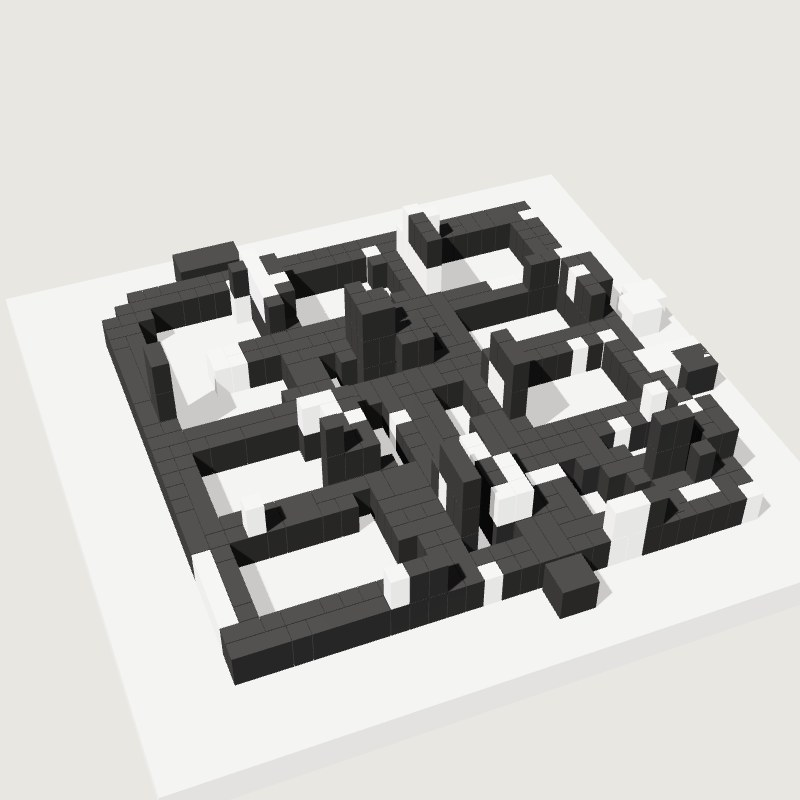
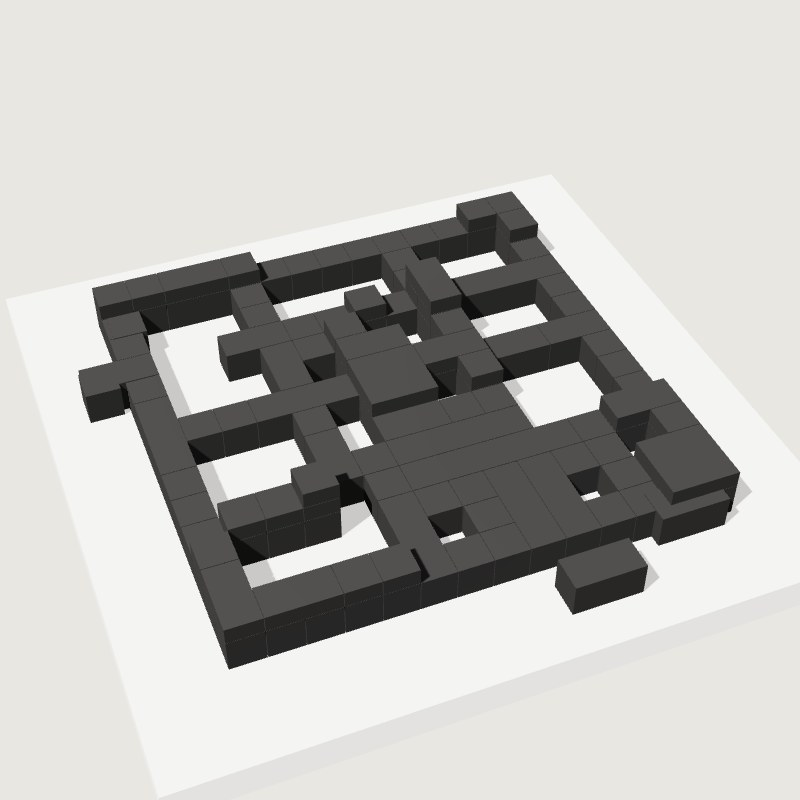
blocks: bigger blocks (a stroke wide), all black

Changed region(s): [[0.0938, 0.2188, 0.9688, 0.875], [0.8125, 0.375, 0.8438, 0.4062]]

diff --git a/dist/assets/index.d4fcfd42.js b/dist/assets/index.d4fcfd42.js
@@ -1,0 +1,1 @@
+import"./modulepreload-polyfill.b7f2da20.js";import{E as rt}from"./embed.d17cc095.js";import{q as ct,ak as lt,au as dt,aC as pt,v as ht,p as mt,ai as ut,av as wt,aD as ft,z as yt,x as Mt,U as K,ao as N,A as W,aE as bt,aF as S,aG as gt,aH as I,aI as _,at as xt,ay as vt,K as U,aJ as Et,ar as Lt,J as St}from"./vendor.6f2b943d.js";import{h as z}from"./haptic.02f05cb2.js";import{c as q,a as X,b as J,L as Pt}from"./logo-path.248ebb5a.js";const r=Math.random,k=10,d=J/q*k,P=13.4,A=.7,v=document.getElementById("blocks"),b=new ct({canvas:v,antialias:!0});b.setPixelRatio(Math.min(devicePixelRatio,2));b.outputEncoding=lt;b.toneMapping=dt;b.shadowMap.enabled=!0;b.shadowMap.type=pt;const E=new ht;E.background=new mt(15329250);const Ct=new ut(b);E.environment=Ct.fromScene(new wt,.04).texture;E.add(new ft(16777215,12433582,.25));const y=new yt(32,1,.1,400),g=new Mt(16775407,2.6);g.position.set(-9,14,4);g.castShadow=!0;g.shadow.mapSize.set(2048,2048);Object.assign(g.shadow.camera,{left:-11,right:11,top:11,bottom:-11,near:1,far:50});g.shadow.bias=-5e-4;g.shadow.normalBias=.02;g.shadow.radius=4;E.add(g);const R=new K(new N(P,A,P),new W({color:14210251,roughness:.95,envMapIntensity:.25}));R.position.y=-A/2;R.receiveShadow=!0;R.castShadow=!0;E.add(R);const It=new W({color:328965,roughness:.8,envMapIntensity:.2}),p=new bt({gravity:new S(0,-30,0)});p.allowSleep=!0;p.broadphase=new gt(p);p.solver.iterations=12;p.defaultContactMaterial.friction=.55;p.defaultContactMaterial.restitution=.08;const Z=new I({mass:0,shape:new _(new S(P/2,A/2,P/2))});Z.position.set(0,-A/2,0);p.addBody(Z);const G=[],$=new Map;function Q(t,n,e,a,c,o){const i=new K(new N(a,c,o),It);i.castShadow=!0,i.receiveShadow=!0,E.add(i);const l=new I({mass:a*c*o*8,shape:new _(new S(a/2,c/2,o/2)),position:new S(t,n+c/2,e),linearDamping:.05,angularDamping:.12,sleepSpeedLimit:.15,sleepTimeLimit:.6});p.addBody(l),l.sleep();const h={body:l,mesh:i};G.push(h),$.set(i,h)}const s=Math.round(k/d),tt=new Array(s*s).fill(!1);{const n=document.createElement("canvas");n.width=n.height=s*8;const e=n.getContext("2d",{willReadFrequently:!0});e.scale(s*8/q,s*8/q),e.translate(-X,-X),e.lineWidth=J,e.stroke(new Path2D(Pt));const a=e.getImageData(0,0,s*8,s*8).data;for(let c=0;c<s;c++)for(let o=0;o<s;o++)tt[c*s+o]=a[((c*8+8/2)*s*8+o*8+8/2)*4+3]>110}const kt=t=>(t+.5)*d-k/2,At=t=>(t+.5)*d-k/2;function Rt(t){const n=new Array(s*s).fill(!1),e=[...Array(s*s).keys()].filter(o=>t[o]).sort(()=>r()-.5),a=(o,i)=>o>=0&&i>=0&&o<s&&i<s&&t[i*s+o]&&!n[i*s+o],c=[];for(const o of e){const i=o%s,l=(o-i)/s;if(!a(i,l))continue;let h=1,w=1;const j=r();if(j<.18&&a(i+1,l)&&a(i,l+1)&&a(i+1,l+1))h=w=2;else if(j<.8){const L=2+Math.floor(r()*5);if(r()<.5)for(;h<L&&a(i+h,l);)h++;else for(;w<L&&a(i,l+w);)w++}for(let L=0;L<h;L++)for(let B=0;B<w;B++)n[(l+B)*s+i+L]=!0;c.push({i,j:l,w:h,d:w})}return c}const C=.006;let D=tt,Y=0;for(let t=0;t<3;t++){const n=t===0?1:r()<.4?.5:1,e=d*n;for(const o of Rt(D))Q(kt(o.i)+(o.w-1)*d/2,Y+C,At(o.j)+(o.d-1)*d/2,o.w*d-C*2,e-C,o.d*d-C*2);Y+=e;const a=r()*10,c=t===0?.32:.22;D=D.map((o,i)=>{const l=i%s,h=(i-l)/s,w=Math.sin(l*.55+a)*Math.cos(h*.47-a*1.3)*.5+.5;return o&&w<c+(r()-.5)*.1})}for(let t=0;t<5;t++){const n=r()*Math.PI*2,e=5.6+r()*.6;Q(Math.cos(n)*e,.02,Math.sin(n)*e,d*(r()<.5?1:2),d,d)}const m={theta:-.38,phi:.82,dist:1};let F=1;function et(){const t=innerWidth,n=innerHeight;b.setSize(t,n,!1),y.aspect=t/n;const e=Lt.degToRad(y.fov/2),a=P*.6;m.dist=Math.max(a/Math.tan(e),a/(Math.tan(e)*y.aspect)),y.updateProjectionMatrix()}function nt(){const t=m.dist*F;y.position.set(Math.sin(m.theta)*Math.sin(m.phi)*t,Math.cos(m.phi)*t,Math.cos(m.theta)*Math.sin(m.phi)*t),y.lookAt(0,.4,0)}addEventListener("resize",et);et();nt();const T=new xt,V=new St,ot=new vt(new U(0,1,0),0),O=new U,M=new I({mass:0,type:I.KINEMATIC});M.collisionResponse=!1;p.addBody(M);let u=null,f=null,x=null;const at=t=>{const n=v.getBoundingClientRect();V.set((t.clientX-n.left)/n.width*2-1,-((t.clientY-n.top)/n.height)*2+1),T.setFromCamera(V,y)};v.addEventListener("pointerdown",t=>{v.setPointerCapture(t.pointerId),at(t);const n=T.intersectObjects(G.map(a=>a.mesh))[0],e=n?$.get(n.object):null;if(x={id:t.pointerId,x:t.clientX,y:t.clientY,t:performance.now()},e&&n){const a=n.point,c=e.body.pointToLocalFrame(new S(a.x,a.y,a.z));M.position.set(a.x,a.y,a.z);const o=new Et(e.body,c,M,new S(0,0,0),60);p.addConstraint(o),e.body.wakeUp(),e.body.angularDamping=.6,u={id:t.pointerId,block:e,joint:o,height:a.y+d*1.6},ot.constant=-a.y,z(8)}else f={id:t.pointerId,x:t.clientX,y:t.clientY}});v.addEventListener("pointermove",t=>{if(u&&t.pointerId===u.id){if(at(t),T.ray.intersectPlane(ot,O)){const n=P/2-d;M.position.set(Math.max(-n,Math.min(n,O.x)),M.position.y,Math.max(-n,Math.min(n,O.z)))}}else f&&t.pointerId===f.id&&(m.theta-=(t.clientX-f.x)*.008,m.phi=Math.max(.25,Math.min(1.35,m.phi-(t.clientY-f.y)*.006)),f.x=t.clientX,f.y=t.clientY)});const st=t=>{if(!x||t.pointerId!==x.id)return;const n=t.type==="pointerup"&&Math.hypot(t.clientX-x.x,t.clientY-x.y)<8&&performance.now()-x.t<280;if(u){p.removeConstraint(u.joint);const e=u.block.body;e.angularDamping=.12,n?(e.velocity.set((r()-.5)*2,9,(r()-.5)*2),e.angularVelocity.set((r()-.5)*16,(r()-.5)*6,(r()-.5)*16),z([8,30,8])):z(10),u=null}f=null,x=null};v.addEventListener("pointerup",st);v.addEventListener("pointercancel",st);addEventListener("wheel",t=>F=Math.max(.55,Math.min(1.6,F*Math.exp(t.deltaY*.001))),{passive:!0});rt||addEventListener("touchmove",t=>t.preventDefault(),{passive:!1});let H=performance.now();function it(t){const n=Math.min(.05,(t-H)/1e3);H=t,u&&(M.position.y+=(u.height-M.position.y)*Math.min(1,n*10)),p.step(1/60,n,4);for(const e of G)e.body.position.y<-12&&(e.body.position.set((r()-.5)*8,8+r()*3,(r()-.5)*8),e.body.velocity.set(0,0,0),e.body.angularVelocity.set((r()-.5)*4,0,(r()-.5)*4)),e.mesh.position.set(e.body.position.x,e.body.position.y,e.body.position.z),e.mesh.quaternion.set(e.body.quaternion.x,e.body.quaternion.y,e.body.quaternion.z,e.body.quaternion.w);nt(),b.render(E,y),requestAnimationFrame(it)}requestAnimationFrame(it);

diff --git a/src/blocks/main.ts b/src/blocks/main.ts
@@ -1,4 +1,4 @@
-// BLOCKS: the logo built from black and white blocks — cubes, bars and squat slabs — on a pale
+// BLOCKS: the logo built from black blocks — cubes, bars and squat slabs — on a pale
 // platform, in a few layers, and every block a real body: it has weight, falls, tips, slides and
 // knocks into the others. The mark is laid out on a grid (no two blocks overlap), each layer cut
 // into pieces at random, so every load is built a little differently.
@@ -17,7 +17,7 @@ import './blocks.css'
 
 const rand = Math.random
 const MARK = 10 // the logo's width, world units
-const C = ((LOGO_STROKE / LOGO_SPAN) * MARK) / 2 // a grid cell: half a stroke
+const C = (LOGO_STROKE / LOGO_SPAN) * MARK // a grid cell: one stroke wide
 const PLATFORM = 13.4
 const SLAB = 0.7
 
@@ -56,7 +56,6 @@ platformMesh.castShadow = true
 scene.add(platformMesh)
 
 const black = new THREE.MeshStandardMaterial({ color: 0x050505, roughness: 0.8, envMapIntensity: 0.2 })
-const white = new THREE.MeshStandardMaterial({ color: 0xf3f1eb, roughness: 0.75, envMapIntensity: 0.25 })
 
 // --- physics -----------------------------------------------------------------------------------------------------
 const world = new CANNON.World({ gravity: new CANNON.Vec3(0, -30, 0) })
@@ -72,8 +71,8 @@ world.addBody(ground)
 type Block = { body: CANNON.Body; mesh: THREE.Mesh }
 const blocks: Block[] = []
 const byMesh = new Map<THREE.Object3D, Block>()
-function addBlock(x: number, y: number, z: number, w: number, h: number, d: number, ink: boolean) {
-  const mesh = new THREE.Mesh(new THREE.BoxGeometry(w, h, d), ink ? black : white)
+function addBlock(x: number, y: number, z: number, w: number, h: number, d: number) {
+  const mesh = new THREE.Mesh(new THREE.BoxGeometry(w, h, d), black)
   mesh.castShadow = true
   mesh.receiveShadow = true
   scene.add(mesh)
@@ -141,10 +140,10 @@ const gap = 0.006
 let layer = filled
 let y = 0
 for (let l = 0; l < 3; l++) {
-  const tall = l === 0 ? 2 : rand() < 0.5 ? 1 : 2 // in cells
+  const tall = l === 0 ? 1 : rand() < 0.4 ? 0.5 : 1 // in cells
   const h = C * tall
   for (const p of cut(layer)) {
-    addBlock(cellX(p.i) + ((p.w - 1) * C) / 2, y + gap, cellZ(p.j) + ((p.d - 1) * C) / 2, p.w * C - gap * 2, h - gap, p.d * C - gap * 2, l === 0 ? rand() < 0.9 : rand() < 0.7)
+    addBlock(cellX(p.i) + ((p.w - 1) * C) / 2, y + gap, cellZ(p.j) + ((p.d - 1) * C) / 2, p.w * C - gap * 2, h - gap, p.d * C - gap * 2)
   }
   y += h
   // the next layer stands on part of this one, in patches
@@ -158,10 +157,10 @@ for (let l = 0; l < 3; l++) {
   })
 }
 // a few loose ones round it
-for (let i = 0; i < 7; i++) {
+for (let i = 0; i < 5; i++) {
   const a = rand() * Math.PI * 2
   const r = 5.6 + rand() * 0.6
-  addBlock(Math.cos(a) * r, 0.02, Math.sin(a) * r, C * 2 * (rand() < 0.5 ? 1 : 2), C * 2, C * 2, rand() < 0.5)
+  addBlock(Math.cos(a) * r, 0.02, Math.sin(a) * r, C * (rand() < 0.5 ? 1 : 2), C, C)
 }
 
 // --- camera ------------------------------------------------------------------------------------------------------
@@ -218,7 +217,7 @@ canvas.addEventListener('pointerdown', (e) => {
     block.body.wakeUp()
     block.body.angularDamping = 0.6
     // carried a little above where it was taken
-    grip = { id: e.pointerId, block, joint, height: p.y + C * 3 }
+    grip = { id: e.pointerId, block, joint, height: p.y + C * 1.6 }
     plane.constant = -p.y
     haptic(8)
   } else turning = { id: e.pointerId, x: e.clientX, y: e.clientY }
@@ -227,7 +226,7 @@ canvas.addEventListener('pointermove', (e) => {
   if (grip && e.pointerId === grip.id) {
     setRay(e)
     if (ray.ray.intersectPlane(plane, hit)) {
-      const lim = PLATFORM / 2 - C * 2
+      const lim = PLATFORM / 2 - C
       hand.position.set(Math.max(-lim, Math.min(lim, hit.x)), hand.position.y, Math.max(-lim, Math.min(lim, hit.z)))
     }
   } else if (turning && e.pointerId === turning.id) {

diff --git a/dist/blocks/index.html b/dist/blocks/index.html
@@ -23,7 +23,7 @@
     <meta name="twitter:title" content="GRBPWR — Blocks" />
     <meta name="twitter:description" content="Generative studies of the GRBPWR mark." />
     <meta name="twitter:image" content="https://art.grbpwr.com/og.png" />
-  <script type="module" crossorigin src="/assets/index.b00104b3.js"></script>
+  <script type="module" crossorigin src="/assets/index.d4fcfd42.js"></script>
   <link rel="modulepreload" href="/assets/modulepreload-polyfill.b7f2da20.js">
   <link rel="modulepreload" href="/assets/embed.d17cc095.js">
   <link rel="modulepreload" href="/assets/vendor.6f2b943d.js">
